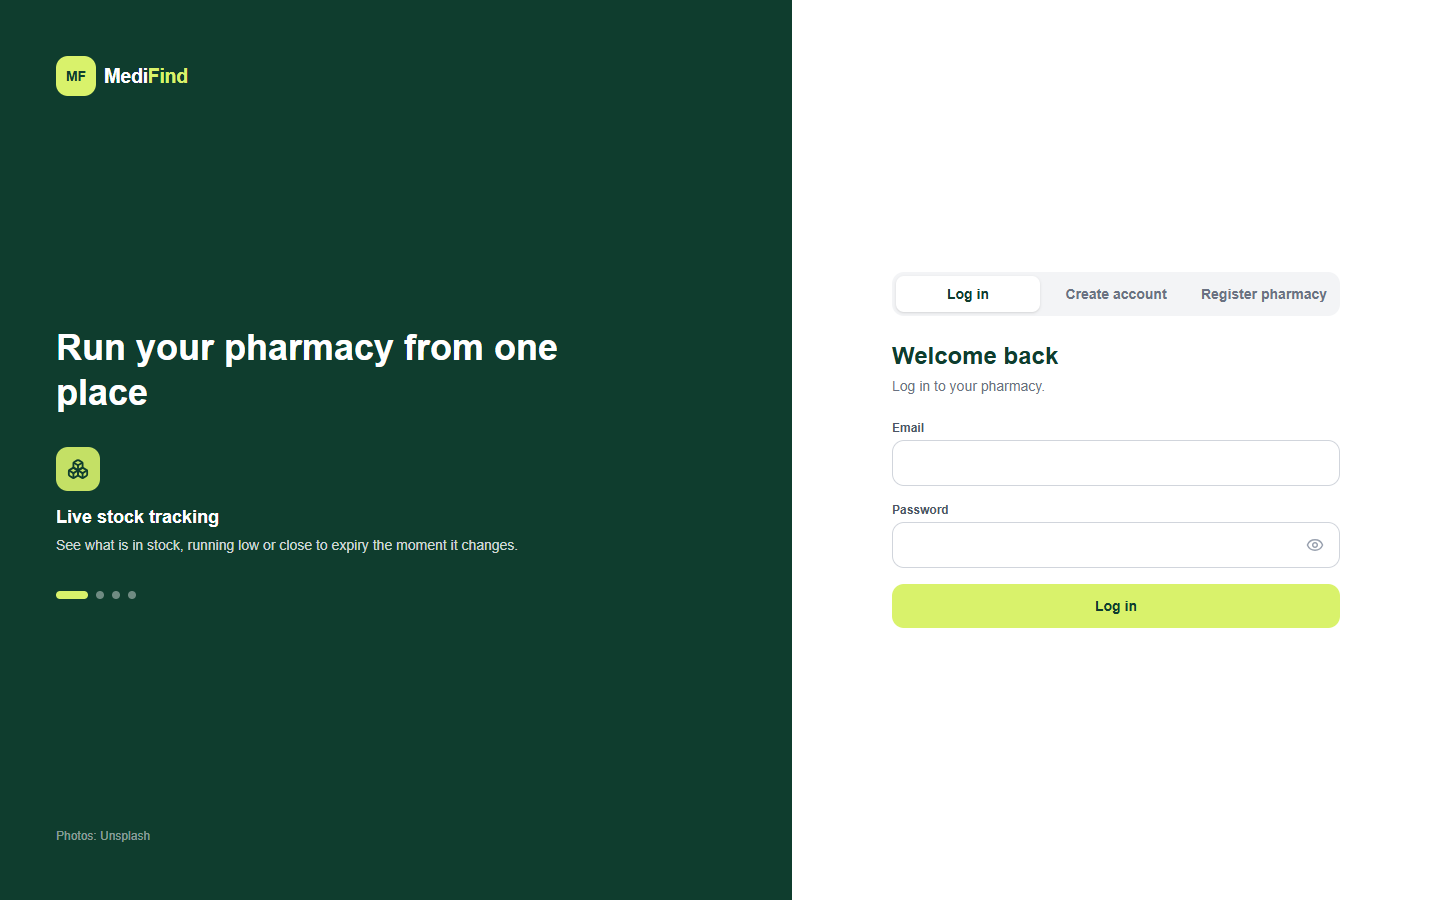
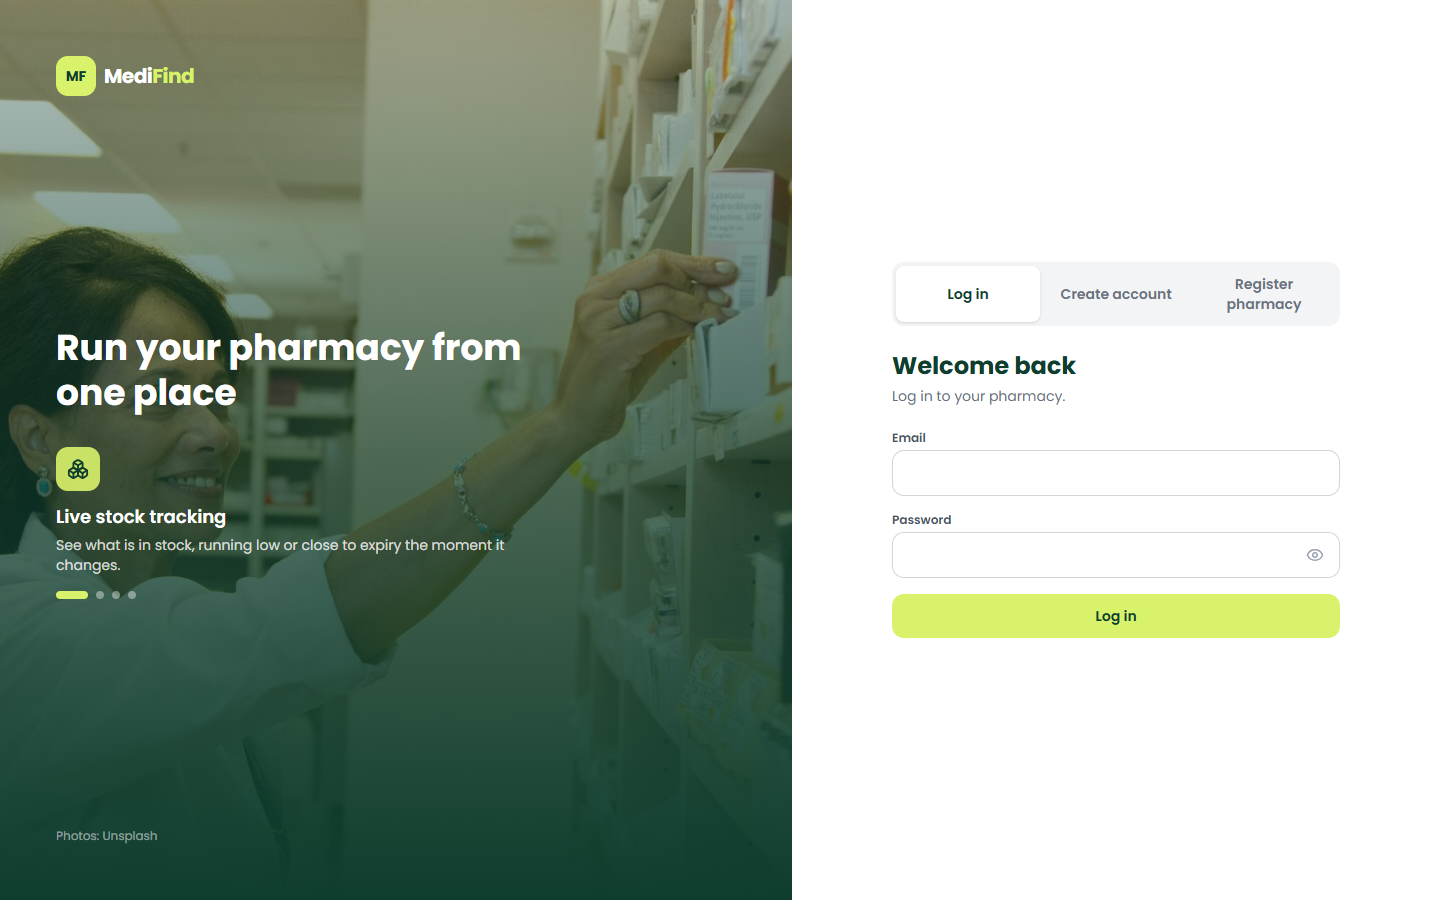
added login photos

diff --git a/frontend/src/pages/Login.jsx b/frontend/src/pages/Login.jsx
@@ -140,6 +140,9 @@ function Slides() {
             key={s.img}
             src={s.img}
             alt=""
+            // lazy: phones hide this panel, so they skip downloading the photos
+            loading="lazy"
+            decoding="async"
             onError={() => setFailed((f) => ({ ...f, [n]: true }))}
             className={`absolute inset-0 h-full w-full object-cover transition-opacity duration-1000 ${
               n === i ? 'opacity-100' : 'opacity-0'
